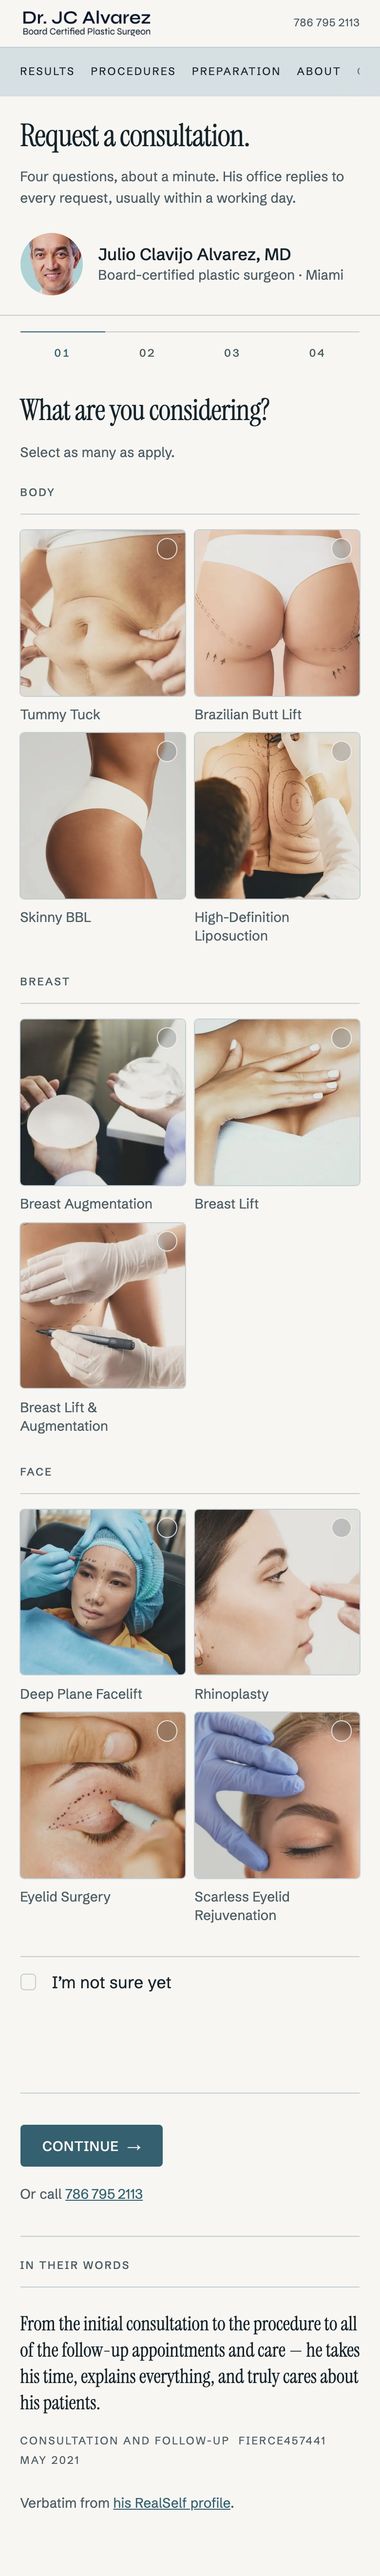
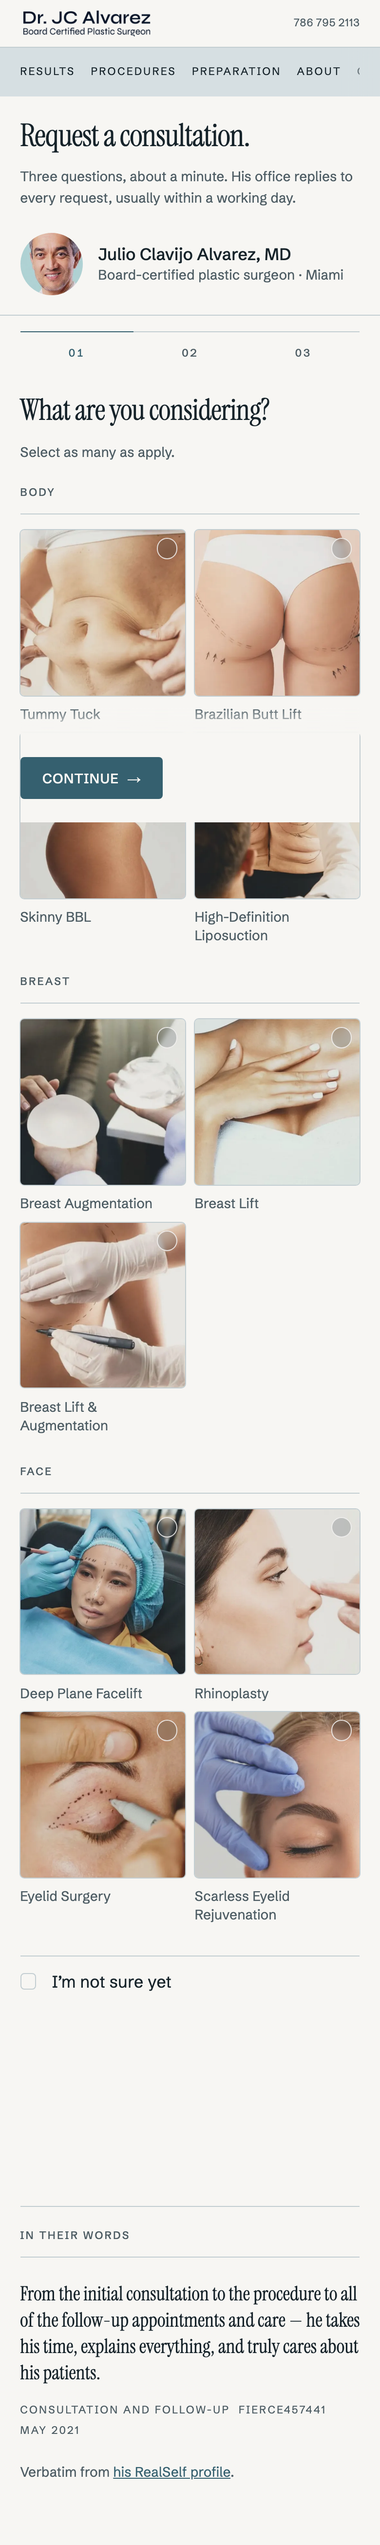
Traducir /preparacion; descartar el video de la faja; resincronizar book.js
Video: lfUDnaabfEM ("Por qué prohíbo la faja el primer mes post abdominoplastia")
queda descartado por decisión del cliente. No estaba embebido en ninguna página
y no lo estará. La decisión queda anotada en content/youtube-catalog.md, junto
con lo que resuelve y lo que no: quita la contradicción de nuestro sitio, no del
suyo — el video sigue público en su canal.

book.js cambió mientras trabajaba y mis commits lo arrastraron con git add -A.
La comprobación de _js.py lo detectó al no encontrar 'Edit' exactamente una vez,
que es justo para lo que está. Remapeado contra el archivo actual, incluidos los
tres mensajes de resultado del formulario. Los dos que dicen que no se envió
nada mantienen la negación al principio: una vista previa no puede dar a
entender que entregó una solicitud que no entregó.

/preparacion: 80 cadenas. "Que va a ser fácil." se queda escueto, y el
descargo de que nada en la página son instrucciones postoperatorias se queda
tal cual — es lo que permite que la página sea así de concreta.

axe 0 a 1440 y 390; crawl limpio.

diff --git a/src/public/procedure.css b/src/public/procedure.css
@@ -1683,36 +1683,6 @@
 .berr{display:block;margin:var(--s-2) 0 0;color:#8c3a3a;font-size:var(--t--1);line-height:1.5}
 .berr[hidden]{display:none}
 
-/* review — every row is editable from where it is read, so a correction costs
-   one tap instead of three Backs */
-.breview{margin:0;padding:0;border-top:1px solid var(--rule-on-light)}
-.breview > div{display:grid;grid-template-columns:8rem minmax(0,1fr);gap:var(--s-2);
-  padding:var(--s-3) 0;border-bottom:1px solid var(--rule-on-light);align-items:baseline}
-.breview dt{font-size:var(--t-eyebrow);letter-spacing:var(--track-eyebrow);
-  text-transform:uppercase;color:var(--muted-on-light)}
-.breview dd{margin:0;display:flex;align-items:baseline;justify-content:space-between;
-  gap:var(--s-3);font-family:var(--font-display);font-size:var(--t-1);line-height:1.3}
-.breview__v{min-width:0;overflow-wrap:break-word}
-.breview__edit{appearance:none;-webkit-appearance:none;background:none;border:0;
-  padding:.35em .1em;margin:0;cursor:pointer;flex:none;
-  font:500 var(--t-eyebrow)/1 var(--font-body);letter-spacing:var(--track-eyebrow);
-  text-transform:uppercase;color:var(--accent-light)}
-.breview__edit:hover{text-decoration:underline}
-.breview__edit:focus-visible{outline:2px solid var(--accent-light);outline-offset:2px}
-
-/* what happens after send — expectation-setting is what stops a request going
-   cold between the form and the phone call */
-.bnext-wrap{margin-top:clamp(2rem,4vw,3rem)}
-.bnext{list-style:none;margin:var(--s-3) 0 0;padding:0;border-top:1px solid var(--rule-on-light)}
-.bnext li{display:grid;grid-template-columns:2.5rem minmax(0,1fr);gap:var(--s-2);
-  padding:var(--s-3) 0;border-bottom:1px solid var(--rule-on-light)}
-.bnext li:last-child{border-bottom:0}
-.bnext__n{font:400 var(--t-eyebrow)/1.6 var(--font-body);font-variant-numeric:tabular-nums;
-  letter-spacing:var(--track-eyebrow);color:var(--accent-light)}
-.bnext__b{font-size:var(--t--1);line-height:1.65;color:var(--muted-on-light)}
-.bnext__b b{display:block;font-weight:500;color:var(--ink);font-size:var(--t-0);
-  line-height:1.35;margin-bottom:.35em}
-
 .bnotice{margin:var(--s-4) 0 0;padding:var(--s-3);background:var(--paper-2);
   border-left:2px solid var(--accent-light);font-size:var(--t--1);line-height:1.65;
   color:var(--muted-on-light)}
@@ -1828,7 +1798,6 @@ html.bookpg{scroll-padding-bottom:7.5rem}
   .bsteps li{justify-content:center}
   /* the sticky bar stays one row on a phone; the number is already in the header */
   .bnav__alt{display:none}
-  .breview > div{grid-template-columns:minmax(0,1fr);row-gap:.35em}
   .bopt{padding:.9rem 0}
 }
 

diff --git a/src/public/book/index.html b/src/public/book/index.html
@@ -4,7 +4,7 @@
 <meta charset="utf-8">
 <meta name="viewport" content="width=device-width,initial-scale=1">
 <title>Request a Consultation — Julio Clavijo Alvarez, MD, Miami</title>
-<meta name="description" content="Request a consultation with Dr. Julio Clavijo Alvarez, board-certified plastic surgeon in Miami. Four questions, about a minute. No medical history, no photographs.">
+<meta name="description" content="Request a consultation with Dr. Julio Clavijo Alvarez, board-certified plastic surgeon in Miami. Three questions, about a minute. No medical history, no photographs.">
 <meta name="robots" content="noindex,nofollow"><!-- spec preview: never indexed (CLAUDE.md §3) -->
 <link rel="preconnect" href="https://fonts.googleapis.com">
 <link rel="preconnect" href="https://fonts.gstatic.com" crossorigin>
@@ -54,7 +54,7 @@
       <div class="bhead__grid">
         <div>
           <h1 id="b-h1">Request a consultation.</h1>
-          <p class="bhead__l">Four questions, about a minute. His office replies to
+          <p class="bhead__l">Three questions, about a minute. His office replies to
             every request, usually within a working day.</p>
         </div>
         <div class="bwho">

diff --git a/content/es/preparacion.py b/content/es/preparacion.py
@@ -1,0 +1,103 @@
+# -*- coding: utf-8 -*-
+"""/preparacion — preparation and recovery. Spanish copy.
+
+The page's whole argument is one sentence: the operation is the part everyone
+photographs, and the healing is the part that decides what you keep. Every
+section serves that, and the honest ones are the point of the page.
+
+Two lines must stay blunt:
+
+  "Que va a ser fácil."
+  The heading under "Lo que no le va a decir". It is the answer to the question,
+  not a tease. A softer Spanish heading breaks the joke and the honesty at once.
+
+  "El dolor cero y la inflamación cero no existen en un cuerpo real."
+  His own words from his channel. Translated from Spanish audio he actually
+  speaks, unlike the introduction-video quote below it — which was recorded in
+  English and is tagged as translated, the same as on /sobre-el-dr-alvarez.
+
+DISCLAIMER — do not soften. "Nada en esta página es consejo médico ni un
+conjunto de instrucciones postoperatorias." That sentence is the reason the page
+can be this specific about recovery without giving anyone instructions. It is
+also why the compression question (see content/youtube-catalog.md) does not sit
+on this page: post-operative instructions come from him, in person.
+
+The RealSelf quotes are translated and labelled as such, matching / and
+/resultados. Usernames and months are never translated.
+"""
+
+T = {
+# ---- head ----
+"Preparation &amp; Recovery — Julio Clavijo Alvarez, MD, Miami":
+  "Preparación y recuperación — Julio Clavijo Alvarez, MD, Miami",
+"How Dr. Julio Clavijo Alvarez plans recovery as part of the operation: what he asks of you before surgery, what patients say the after was really like, and where his own guidance lives.":
+  "Cómo el Dr. Julio Clavijo Alvarez planifica la recuperación como parte de la operación: qué le pide antes de la cirugía, qué dicen las pacientes que fue realmente el después, y dónde están sus propias indicaciones.",
+
+# ---- hero ----
+"Healing is part of the operation.": "Cicatrizar es parte de la operación.",
+"Most of what decides your result happens when you are not in the operating room &mdash; in the weeks before your date, and the months after it.":
+  "Casi todo lo que decide su resultado ocurre cuando usted no está en el quirófano &mdash; en las semanas previas a su fecha, y en los meses posteriores.",
+"Before he was a plastic surgeon, Dr. Alvarez spent years in research laboratories at Harvard University and the University of Pittsburgh studying stem cells, cell culturing and tissue repair. That is an unusual thing for a surgeon to have done, and it is why the plan you are given starts long before your date and does not stop at your last stitch.":
+  "Antes de ser cirujano plástico, el Dr. Alvarez pasó años en laboratorios de investigación de la Universidad de Harvard y de la Universidad de Pittsburgh estudiando células madre, cultivo celular y reparación de tejidos. Es algo poco habitual en un cirujano, y es la razón por la que el plan que le entregan empieza mucho antes de su fecha y no termina en el último punto.",
+"Zero pain and zero inflammation don&rsquo;t exist in a real body.":
+  "El dolor cero y la inflamación cero no existen en un cuerpo real.",
+"Dr. Alvarez, on his channel": "El Dr. Alvarez, en su canal",
+
+# ---- before you have a date ----
+"Before you have a date": "Antes de tener una fecha",
+"The things that will cost you a good result.": "Lo que le va a costar un buen resultado.",
+"He would rather tell you these now than explain them afterwards. Every one of them is his own, at length &mdash; in his words, not ours.":
+  "Prefiere decírselo ahora a explicárselo después. Cada uno de estos temas está desarrollado por él &mdash; con sus palabras, no las nuestras.",
+"Ozempic and GLP-1s before surgery &middot; 1:56":
+  "Ozempic y los GLP-1 antes de una cirugía &middot; 1:56",
+"Why nicotine ruins a result &middot; 4:18":
+  "Por qué la nicotina arruina un resultado &middot; 4:18",
+"How to sleep to protect the result &middot; 3:56":
+  "Cómo dormir para proteger el resultado &middot; 3:56",
+"His book &mdash; the whole argument, at length":
+  "Su libro &mdash; el argumento completo, en extenso",
+
+# ---- what he brings to it ----
+"What he brings to it": "Lo que él aporta",
+"A doctorate&rsquo;s worth of interest in how tissue repairs.":
+  "Todo un doctorado de interés en cómo repara el tejido.",
+"Hyperbaric oxygen therapy is part of his practice &mdash; he trained in it and talks about it at length on his own channel. So is the regenerative side of the field he researched: exosomes, peptides, stem cells, and what each of them actually does.":
+  "La oxigenoterapia hiperbárica es parte de su consulta &mdash; se formó en ella y habla de ella largamente en su propio canal. También lo es el lado regenerativo del campo que investigó: exosomas, péptidos, células madre, y qué hace realmente cada uno.",
+"None of it is a shortcut and he does not sell it as one. It is the same argument as the rest of this page: the operation is the part everyone photographs, and the healing is the part that decides what you keep.":
+  "Nada de eso es un atajo y él no lo vende como tal. Es el mismo argumento que el resto de esta página: la operación es la parte que todo el mundo fotografía, y la cicatrización es la parte que decide con qué se queda.",
+"I&rsquo;m integrating all that knowledge that is going to benefit you &mdash; to improve the quality of your healing after cosmetic surgery.":
+  "Estoy integrando todo ese conocimiento que va a beneficiarla &mdash; para mejorar la calidad de su recuperación después de una cirugía estética.",
+"From his introduction video": "De su video de presentación &middot; traducido del inglés",
+
+# ---- what the after sounded like ----
+"What the after actually sounded like": "Cómo sonó de verdad el después",
+"Nobody photographs week one.": "Nadie fotografía la primera semana.",
+"Verbatim from": "Tomados de",
+
+# ---- what he will not tell you ----
+"What he will not tell you": "Lo que no le va a decir",
+"That it will be easy.": "Que va a ser fácil.",
+"Your plan is yours": "Su plan es suyo",
+"Recovery is not one timeline. It depends on the procedure, on whether you had more than one, on your age, your weight, whether you smoke, and how your tissue behaves. You get a plan built for your case at your consultation, in writing, before you commit to anything.":
+  "La recuperación no es un solo calendario. Depende del procedimiento, de si se hizo más de uno, de su edad, su peso, si fuma, y de cómo se comporta su tejido. En la consulta recibe un plan hecho para su caso, por escrito, antes de comprometerse a nada.",
+"The first week is the hard one": "La primera semana es la dura",
+"Every patient who mentions it says the same thing, and so does he. What he does not do is soften it so the decision is easier.":
+  "Toda paciente que lo menciona dice lo mismo, y él también. Lo que no hace es suavizarlo para que la decisión sea más fácil.",
+"Ask him what can go wrong": "Pregúntele qué puede salir mal",
+"He will answer, in detail, including the outcomes that were not perfect and what he would do differently now. It is a strange thing to look forward to in a consultation. It is also the reason to book one.":
+  "Le va a responder, en detalle, incluidos los resultados que no fueron perfectos y qué haría distinto hoy. Es algo raro que esperar con ganas de una consulta. También es la razón para pedirla.",
+"Nothing on this page is medical advice or a set of post-operative instructions. Your instructions come from Dr. Alvarez, in person, for your procedure &mdash; and those are the ones to follow.":
+  "Nada en esta página es consejo médico ni un conjunto de instrucciones postoperatorias. Sus instrucciones se las da el Dr. Alvarez, en persona, para su procedimiento &mdash; y esas son las que hay que seguir.",
+
+# ---- closing ----
+"Bring your questions about the after.": "Traiga sus preguntas sobre el después.",
+"Most people arrive asking about the surgery. The ones who ask about the recovery get the most out of the hour.":
+  "La mayoría llega preguntando por la cirugía. Quienes preguntan por la recuperación son las que más aprovechan la hora.",
+
+# ---- alt text and small labels ----
+"On being told the truth about recovery": "Sobre que le digan la verdad de la recuperación",
+"Dr. Alvarez with Liliana Clavijo and Valentina Sanchez":
+  "El Dr. Alvarez con Liliana Clavijo y Valentina Sanchez",
+"&ldquo;His office called me twice to check in.&rdquo; A small practice is why that happens at all &mdash; you are not handed between departments.":
+  "«Su consulta me llamó dos veces para ver cómo seguía.» Que eso pase se debe a que es una consulta pequeña &mdash; no la pasan de un departamento a otro.",
+}

diff --git a/content/es/_js.py b/content/es/_js.py
@@ -57,25 +57,43 @@ EDITS = {
   ("""  var LABEL = { procedure: 'Procedure', timing: 'Timing', name: 'Name',
                 email: 'Email', phone: 'Phone', language: 'Language', note: 'Note' };""",
    """  var LABEL = { procedure: 'Procedimiento', timing: 'Fechas', name: 'Nombre',
-                email: 'Correo', phone: 'Tel\\u00e9fono', language: 'Idioma', note: 'Nota' };"""),
+                email: 'Correo', phone: 'Tel\u00e9fono', language: 'Idioma', note: 'Nota' };"""),
 
   # Announced to screen readers on every step change.
   ("live.textContent = 'Step ' + (at + 1) + ' of ' + panels.length;",
    "live.textContent = 'Paso ' + (at + 1) + ' de ' + panels.length;"),
 
   ("if (!ok) live.textContent = 'Check the highlighted answer';",
-   "if (!ok) live.textContent = 'Revise la respuesta se\\u00f1alada';"),
+   "if (!ok) live.textContent = 'Revise la respuesta se\u00f1alada';"),
 
-  ("ed.textContent = 'Edit';",
-   "ed.textContent = 'Editar';"),
+  ("live.textContent = 'Sending\u2026';",
+   "live.textContent = 'Enviando\u2026';"),
 
-  # 'Edit ' + LABEL[k].toLowerCase() -> 'Editar ' + ... reads correctly in Spanish
-  # for all seven labels ("editar procedimiento", "editar correo").
-  ("ed.setAttribute('aria-label', 'Edit ' + LABEL[k].toLowerCase());",
-   "ed.setAttribute('aria-label', 'Editar ' + LABEL[k].toLowerCase());"),
+  ("hint.textContent = n < 2 ? '' : n + ' selected.';",
+   "hint.textContent = n < 2 ? '' : n + ' seleccionados.';"),
 
-  ("live.textContent = 'Sending…';",
-   "live.textContent = 'Enviando…';"),
+  # The three outcomes. Two of them say plainly that nothing was sent, which is
+  # the whole point of them — a preview build must never claim it delivered a
+  # request it did not. Keep the negation first in the Spanish too.
+  ("""      finish('Nothing was sent, because no destination is connected to this preview yet. ' +
+             'This is what would have gone: ' + flat(v) + '.');""",
+   """      finish('No se envi\u00f3 nada, porque esta vista previa todav\u00eda no tiene un destino conectado. ' +
+             'Esto es lo que se habr\u00eda enviado: ' + flat(v) + '.');"""),
+
+  ("""        finish('Sent. His office replies to every request, usually within a working day. ' +
+               'A copy is on its way to ' + v.email + '.');""",
+   """        finish('Enviado. Su consulta responde a todas las solicitudes, normalmente en un d\u00eda h\u00e1bil. ' +
+               'Va una copia en camino a ' + v.email + '.');"""),
+
+  ("""        finish('Nothing was sent: this build has no mail destination connected yet. ' +
+               'This is what would have gone: ' + flat(v) + '.');""",
+   """        finish('No se envi\u00f3 nada: esta versi\u00f3n todav\u00eda no tiene un destino de correo conectado. ' +
+               'Esto es lo que se habr\u00eda enviado: ' + flat(v) + '.');"""),
+
+  ("""      notice.innerHTML = '<b>That did not send.</b> Please call 786 795 2113 rather than ' +
+        'trying again — it is faster, and someone answers.';""",
+   """      notice.innerHTML = '<b>Eso no se envi\u00f3.</b> Por favor llame al 786 795 2113 en vez de ' +
+        'volver a intentarlo — es m\u00e1s r\u00e1pido, y alguien contesta.';"""),
 ],
 
 "book-brief.js": [

diff --git a/content/youtube-catalog.md b/content/youtube-catalog.md
@@ -15,25 +15,29 @@ procedure explainer for all eleven procedures, plus 26 preparation and recovery 
 
 ---
 
-## ⚠ One conflict to resolve before the tummy tuck page ships
+## Resolved by decision — `lfUDnaabfEM` is not used
 
 `lfUDnaabfEM` — **"Por qué prohíbo la faja el primer mes post abdominoplastia"**
 ("Why I prohibit the compression garment for the first month after abdominoplasty"),
 517 views.
 
-**His website says the opposite.** The recovery timeline we built on
-`/procedures/tummy-tuck` came from his own site, which states: binder on before you wake
-up · binder full-time · **binder for the first month, then a faja for two more** ·
-full-time compression for at least eight weeks.
+It contradicted his own website, which is where the `/procedures/tummy-tuck` recovery
+timeline came from: binder on before you wake up · binder full-time · binder for the
+first month, then a faja for two more · full-time compression for at least eight weeks.
 
-His YouTube says he *prohibits* the garment for that first month. Two of his own channels
-give a patient opposite post-operative instructions, and ours currently publishes the
-website version.
+**Decision (client-side lead, 2026-08-31): drop the video.** It is not embedded on any
+page and will not be. The site follows his website's post-operative instructions, which
+is what the Spanish `/procedimientos/abdominoplastia` timeline now publishes.
 
-**This is his call, not ours.** Until he says which is current, the compression rows in
-the Day 1 / Day 5 / Week 4 / Week 8 panels are unsafe to ship. Related clips worth
-watching with him in the room: `KDWFuDsIMTM` (boards and foams in recovery),
-`Ap0X3m14Y9M` (why massages start the next day).
+**What this does and does not settle.** It removes the contradiction from our site. It
+does not remove it from his — the video is still public on his channel, so a patient can
+still find one instruction here and the opposite one there. Worth one question to him at
+the pitch: which is current. Everything else on the page depends on the answer being the
+website's, and this is the only place on the site where being wrong reaches a patient's
+body rather than their expectations.
+
+Related clips worth watching with him in the room: `KDWFuDsIMTM` (boards and foams in
+recovery), `Ap0X3m14Y9M` (why massages start the next day).
 
 ---
 
@@ -54,7 +58,7 @@ until someone presses play. See `docs/DECISIONS.md` D-029.
 | ↕ | `seOgh2o35zs` | — | What is a reverse tummy tuck and who is it for? | 197 |
 | ↕ | `xsy7GBFUAu8` | — | The mistake everyone makes in a Tummy Tuck #tummytuck | 28 |
 | ↕ | `8ZMxlfV9Q1I` | — | Can you tighten the muscles during a mini tummy tuck? #TummyTuckMiami #MiniTummyTuck #DrJCAlva | 913 |
-| ↕ | `lfUDnaabfEM` | — | Why I prohibit wearing a compression garment the first month after a tummy tuck #TummyTuck #Po | 517 |
+| ✗ | `lfUDnaabfEM` | — | NOT USED (contradicts his site) — Why I prohibit wearing a compression garment the first month after a tummy tuck #TummyTuck #Po | 517 |
 | ↕ | `b49dQV4jR8U` | — | Mini vs. full abdominoplasty: the difference no one explains #TummyTuck #MommyMakeover #DrJCAl | 659 |
 | ↕ | `sSCvuKWbSL4` | — | In a tummy tuck, the skin from the navel down is removed. #drjcalvarez #tummytuck | 1K |
 | ↕ | `oemiok1vARc` | — | Esto puede pasar después de un tummy tuck #drjcalvarez #tummytuck | 1.2K |

diff --git a/docs/DECISIONS.md b/docs/DECISIONS.md
@@ -3449,3 +3449,43 @@ JavaScript off the bar is still sticky and the single submit still works.
 
 **New tool: `tools/stickynav.mjs`** — checks both halves: the button stays on screen while
 scrolling, and nothing ends up behind it when tabbing.
+
+---
+
+## D-077 — The review step comes off, and the one bug that hides in doing it
+
+Step 04, "Check it over", is gone. The form is now Procedure → Timing → Contact, and
+**Send request** sits on the contact step. Same reasoning as D-075: a review step is
+insurance against a long form, and this one is three questions. It also had the worst
+ratio on the page — a whole step, a full screen, and a tap, to re-read four lines the
+person had just typed.
+
+The summary is not lost on desktop: the rail's *Your request* brief has assembled the
+same four rows since D-073, and it stays on screen while she fills in her name.
+
+**The bug this change hides.** The submit handler validated `i < panels.length - 1`,
+stopping one panel short. That was correct while the last panel was the review, which
+has nothing to validate — and silently wrong the moment Contact became last, because it
+would have let an **empty name and email post straight to the endpoint**. Removing a step
+quietly changed the meaning of a loop bound written for the old shape. Fixed to
+`i < panels.length`, and `tools/bookfn.mjs` now routes `/api/consultation` and asserts
+**zero requests posted** from an empty contact step, so a future edit cannot reintroduce it.
+
+Also moved: `#bNotice` lived inside the review panel and reported send failures. With no
+panel outliving the last answer it now sits above the nav, where a failure on any step
+can reach it.
+
+Removed with it: `fillReview()`, the `STEP_OF` edit-link map, `.breview*` and `.bnext*`
+(30 lines of CSS whose markup had already gone in D-075), and the fourth rail item. The
+header said **"Four questions"** — which had been wrong even before this, since it counted
+the review as a question. Now three, in the visible copy and the meta description.
+
+Verified: axe **0 violations at 1440, 390 and 320 across all three steps**; CLS 0.0004;
+no horizontal overflow at 320px; fold positions unchanged; sticky nav still pins at every
+scroll depth with nothing hidden behind it when tabbing; save-and-resume, deep links,
+contextual proof and the no-JS path all still pass.
+
+**Open, and worth a decision:** on a phone the rail is dropped, so there is now no summary
+between the last field and Send. That is normal for a three-question form, but if it
+matters, the cheapest fix is to show the brief above the nav on the contact step at
+narrow widths only.
